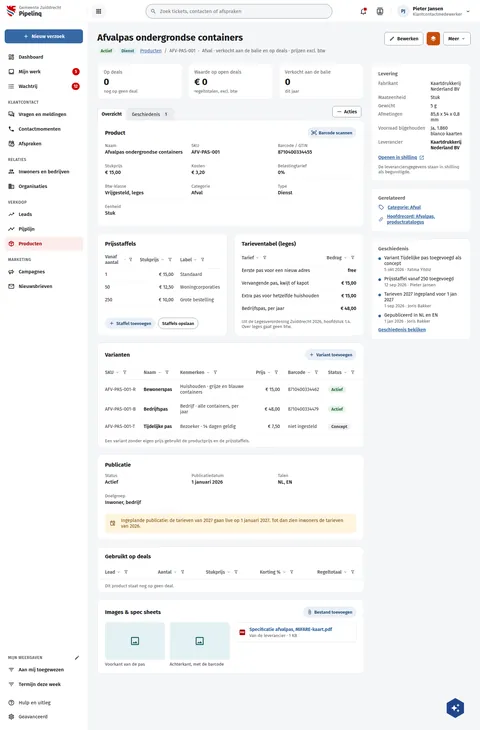
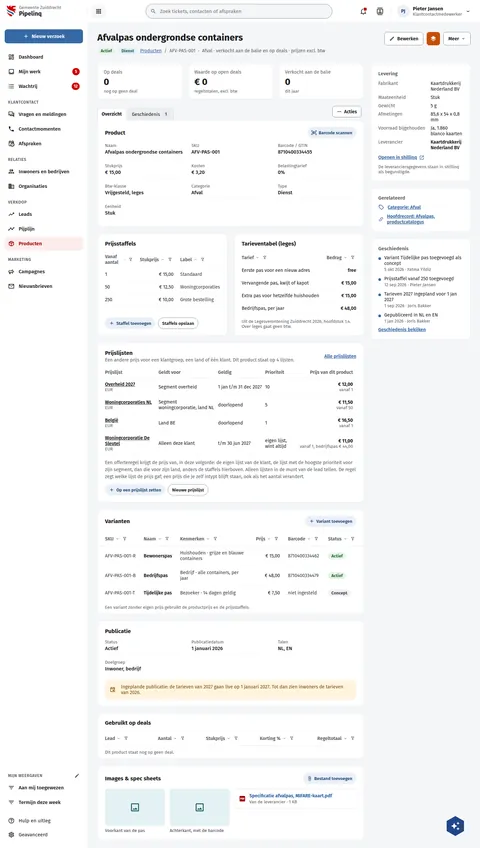
feat(screens): PqProduct lists the price lists per customer group, country or client
Row prod-price-lists (products-price-lists, REQ-PPL-001 to 003): a Prijslijsten section under the tiers and fee table lists the lists this product is on (segment, country or one client, validity, priority, price and minimum quantity) and states the order in which a quote line gets its price and that a typed price stays. The capability note lists the row; the English catalogue carries the new strings.

Assisted-by: ClaudeCode:claude-fable-5-1

diff --git a/preview/screens/boards/PqProduct.html b/preview/screens/boards/PqProduct.html
@@ -279,6 +279,19 @@ a{color:var(--sc-primary, #3669a5)}a:hover{color:var(--sc-primary-deep, #234a78)
               </section>
             </div>
 
+            <section style="background: #ffffff; border: 1px solid var(--sc-work-line, #e4e6ea); border-radius: 12px; padding: 20px 22px; display: flex; flex-direction: column; gap: 12px">
+              <div style="display: flex; flex-wrap: wrap; justify-content: space-between; align-items: center; gap: 8px"><div style="display: flex; flex-direction: column; gap: 2px"><h2 style="margin: 0; font-size: 17px; font-weight: 700">Prijslijsten</h2><span style="font-size: 14px; color: var(--sc-work-muted, #5e6168)">Een andere prijs voor een klantgroep, een land of één klant. Dit product staat op 4 lijsten.</span></div><a href="PqProducten.html" style="font-size: 14px; font-weight: 600">Alle prijslijsten</a></div>
+              <table style="border-collapse: collapse; width: 100%; font-size: 14px">
+                <thead><tr style="text-align: left; color: var(--sc-work-muted, #5e6168)"><th style="padding: 8px 10px 8px 0; border-bottom: 1px solid var(--sc-work-line, #e4e6ea); font-weight: 600">Prijslijst</th><th style="padding: 8px 10px 8px 0; border-bottom: 1px solid var(--sc-work-line, #e4e6ea); font-weight: 600">Geldt voor</th><th style="padding: 8px 10px 8px 0; border-bottom: 1px solid var(--sc-work-line, #e4e6ea); font-weight: 600">Geldig</th><th style="padding: 8px 10px 8px 0; border-bottom: 1px solid var(--sc-work-line, #e4e6ea); font-weight: 600">Prioriteit</th><th style="padding: 8px 10px 8px 0; border-bottom: 1px solid var(--sc-work-line, #e4e6ea); font-weight: 600; text-align: right">Prijs van dit product</th></tr></thead>
+                <tbody><tr><td style="padding: 10px 10px 10px 0; border-bottom: 1px solid var(--sc-work-soft, #eef0f3)"><a href="#" style="font-weight: 600; color: var(--sc-work-ink, #1b1c1d)">Overheid 2027</a><span style="display: block; font-size: 13px; color: var(--sc-work-muted, #5e6168)">EUR</span></td><td style="padding: 10px 10px 10px 0; border-bottom: 1px solid var(--sc-work-soft, #eef0f3)">Segment overheid</td><td style="padding: 10px 10px 10px 0; border-bottom: 1px solid var(--sc-work-soft, #eef0f3); white-space: nowrap">1 jan t/m 31 dec 2027</td><td style="padding: 10px 10px 10px 0; border-bottom: 1px solid var(--sc-work-soft, #eef0f3)">10</td><td style="padding: 10px 10px 10px 0; border-bottom: 1px solid var(--sc-work-soft, #eef0f3); text-align: right; white-space: nowrap"><strong>€ 12,00</strong><span style="display: block; font-size: 13px; color: var(--sc-work-muted, #5e6168)">vanaf 1</span></td></tr><tr><td style="padding: 10px 10px 10px 0; border-bottom: 1px solid var(--sc-work-soft, #eef0f3)"><a href="#" style="font-weight: 600; color: var(--sc-work-ink, #1b1c1d)">Woningcorporaties NL</a><span style="display: block; font-size: 13px; color: var(--sc-work-muted, #5e6168)">EUR</span></td><td style="padding: 10px 10px 10px 0; border-bottom: 1px solid var(--sc-work-soft, #eef0f3)">Segment woningcorporatie, land NL</td><td style="padding: 10px 10px 10px 0; border-bottom: 1px solid var(--sc-work-soft, #eef0f3); white-space: nowrap">doorlopend</td><td style="padding: 10px 10px 10px 0; border-bottom: 1px solid var(--sc-work-soft, #eef0f3)">5</td><td style="padding: 10px 10px 10px 0; border-bottom: 1px solid var(--sc-work-soft, #eef0f3); text-align: right; white-space: nowrap"><strong>€ 11,50</strong><span style="display: block; font-size: 13px; color: var(--sc-work-muted, #5e6168)">vanaf 50</span></td></tr><tr><td style="padding: 10px 10px 10px 0; border-bottom: 1px solid var(--sc-work-soft, #eef0f3)"><a href="#" style="font-weight: 600; color: var(--sc-work-ink, #1b1c1d)">België</a><span style="display: block; font-size: 13px; color: var(--sc-work-muted, #5e6168)">EUR</span></td><td style="padding: 10px 10px 10px 0; border-bottom: 1px solid var(--sc-work-soft, #eef0f3)">Land BE</td><td style="padding: 10px 10px 10px 0; border-bottom: 1px solid var(--sc-work-soft, #eef0f3); white-space: nowrap">doorlopend</td><td style="padding: 10px 10px 10px 0; border-bottom: 1px solid var(--sc-work-soft, #eef0f3)">1</td><td style="padding: 10px 10px 10px 0; border-bottom: 1px solid var(--sc-work-soft, #eef0f3); text-align: right; white-space: nowrap"><strong>€ 16,50</strong><span style="display: block; font-size: 13px; color: var(--sc-work-muted, #5e6168)">vanaf 1</span></td></tr><tr><td style="padding: 10px 10px 10px 0; border-bottom: 1px solid var(--sc-work-soft, #eef0f3)"><a href="#" style="font-weight: 600; color: var(--sc-work-ink, #1b1c1d)">Woningcorporatie De Sleutel</a><span style="display: block; font-size: 13px; color: var(--sc-work-muted, #5e6168)">EUR</span></td><td style="padding: 10px 10px 10px 0; border-bottom: 1px solid var(--sc-work-soft, #eef0f3)">Alleen deze klant</td><td style="padding: 10px 10px 10px 0; border-bottom: 1px solid var(--sc-work-soft, #eef0f3); white-space: nowrap">t/m 30 jun 2027</td><td style="padding: 10px 10px 10px 0; border-bottom: 1px solid var(--sc-work-soft, #eef0f3)">eigen lijst, wint altijd</td><td style="padding: 10px 10px 10px 0; border-bottom: 1px solid var(--sc-work-soft, #eef0f3); text-align: right; white-space: nowrap"><strong>€ 11,00</strong><span style="display: block; font-size: 13px; color: var(--sc-work-muted, #5e6168)">vanaf 1, bedrijfspas € 44,00</span></td></tr></tbody>
+              </table>
+              <p style="margin: 0; font-size: 14px; line-height: 1.5; color: var(--sc-work-muted, #5e6168)">Een offerteregel krijgt de prijs van, in deze volgorde: de eigen lijst van de klant, de lijst met de hoogste prioriteit voor zijn segment, dan die voor zijn land, anders de staffels hierboven. Alleen lijsten in de munt van de lead tellen. De regel zegt welke lijst de prijs gaf; een prijs die je zelf intypt blijft staan, ook als het aantal verandert.</p>
+              <div style="display: flex; flex-wrap: wrap; gap: 8px">
+                <button type="button" style="display: inline-flex; align-items: center; gap: 6px; height: 34px; padding: 0 12px; border: 0; border-radius: 17px; background: var(--sc-primary-light, #eaf0f7); color: var(--sc-primary-deep, #234a78); font: 600 13px var(--sc-font, 'Fira Sans'), sans-serif"><svg width="16" height="16" viewbox="0 0 24 24" fill="currentColor"><path d="M19,13H13V19H11V13H5V11H11V5H13V11H19V13Z"></path></svg>Op een prijslijst zetten</button>
+                <button type="button" style="height: 34px; padding: 0 12px; border: 1px solid var(--sc-work-field, #828a95); border-radius: 17px; background: #ffffff; color: var(--sc-work-ink, #1b1c1d); font: 600 13px var(--sc-font, 'Fira Sans'), sans-serif">Nieuwe prijslijst</button>
+              </div>
+            </section>
+
             <section style="background: #ffffff; border: 1px solid var(--sc-work-line, #e4e6ea); border-radius: 12px; display: flex; flex-direction: column">
               <div style="display: flex; flex-wrap: wrap; justify-content: space-between; align-items: center; gap: 10px; padding: 18px 22px 14px">
                 <h2 style="margin: 0; font-size: 17px; font-weight: 700">Varianten</h2>

diff --git a/screens-src/zuiddrecht/PqProduct.dc.html b/screens-src/zuiddrecht/PqProduct.dc.html
@@ -88,6 +88,19 @@ a{color:#3669a5}a:hover{color:#234a78}
               </section>
             </div>
 
+            <section style="background: #ffffff; border: 1px solid #e4e6ea; border-radius: 12px; padding: 20px 22px; display: flex; flex-direction: column; gap: 12px">
+              <div style="display: flex; flex-wrap: wrap; justify-content: space-between; align-items: center; gap: 8px"><div style="display: flex; flex-direction: column; gap: 2px"><h2 style="margin: 0; font-size: 17px; font-weight: 700">Prijslijsten</h2><span style="font-size: 14px; color: #5e6168">Een andere prijs voor een klantgroep, een land of één klant. Dit product staat op 4 lijsten.</span></div><a href="PqProducten.dc.html" style="font-size: 14px; font-weight: 600">Alle prijslijsten</a></div>
+              <table style="border-collapse: collapse; width: 100%; font-size: 14px">
+                <thead><tr style="text-align: left; color: #5e6168"><th style="padding: 8px 10px 8px 0; border-bottom: 1px solid #e4e6ea; font-weight: 600">Prijslijst</th><th style="padding: 8px 10px 8px 0; border-bottom: 1px solid #e4e6ea; font-weight: 600">Geldt voor</th><th style="padding: 8px 10px 8px 0; border-bottom: 1px solid #e4e6ea; font-weight: 600">Geldig</th><th style="padding: 8px 10px 8px 0; border-bottom: 1px solid #e4e6ea; font-weight: 600">Prioriteit</th><th style="padding: 8px 10px 8px 0; border-bottom: 1px solid #e4e6ea; font-weight: 600; text-align: right">Prijs van dit product</th></tr></thead>
+                <tbody><tr><td style="padding: 10px 10px 10px 0; border-bottom: 1px solid #eef0f3"><a href="#" style="font-weight: 600; color: #1b1c1d">Overheid 2027</a><span style="display: block; font-size: 13px; color: #5e6168">EUR</span></td><td style="padding: 10px 10px 10px 0; border-bottom: 1px solid #eef0f3">Segment overheid</td><td style="padding: 10px 10px 10px 0; border-bottom: 1px solid #eef0f3; white-space: nowrap">1 jan t/m 31 dec 2027</td><td style="padding: 10px 10px 10px 0; border-bottom: 1px solid #eef0f3">10</td><td style="padding: 10px 10px 10px 0; border-bottom: 1px solid #eef0f3; text-align: right; white-space: nowrap"><strong>€ 12,00</strong><span style="display: block; font-size: 13px; color: #5e6168">vanaf 1</span></td></tr><tr><td style="padding: 10px 10px 10px 0; border-bottom: 1px solid #eef0f3"><a href="#" style="font-weight: 600; color: #1b1c1d">Woningcorporaties NL</a><span style="display: block; font-size: 13px; color: #5e6168">EUR</span></td><td style="padding: 10px 10px 10px 0; border-bottom: 1px solid #eef0f3">Segment woningcorporatie, land NL</td><td style="padding: 10px 10px 10px 0; border-bottom: 1px solid #eef0f3; white-space: nowrap">doorlopend</td><td style="padding: 10px 10px 10px 0; border-bottom: 1px solid #eef0f3">5</td><td style="padding: 10px 10px 10px 0; border-bottom: 1px solid #eef0f3; text-align: right; white-space: nowrap"><strong>€ 11,50</strong><span style="display: block; font-size: 13px; color: #5e6168">vanaf 50</span></td></tr><tr><td style="padding: 10px 10px 10px 0; border-bottom: 1px solid #eef0f3"><a href="#" style="font-weight: 600; color: #1b1c1d">België</a><span style="display: block; font-size: 13px; color: #5e6168">EUR</span></td><td style="padding: 10px 10px 10px 0; border-bottom: 1px solid #eef0f3">Land BE</td><td style="padding: 10px 10px 10px 0; border-bottom: 1px solid #eef0f3; white-space: nowrap">doorlopend</td><td style="padding: 10px 10px 10px 0; border-bottom: 1px solid #eef0f3">1</td><td style="padding: 10px 10px 10px 0; border-bottom: 1px solid #eef0f3; text-align: right; white-space: nowrap"><strong>€ 16,50</strong><span style="display: block; font-size: 13px; color: #5e6168">vanaf 1</span></td></tr><tr><td style="padding: 10px 10px 10px 0; border-bottom: 1px solid #eef0f3"><a href="#" style="font-weight: 600; color: #1b1c1d">Woningcorporatie De Sleutel</a><span style="display: block; font-size: 13px; color: #5e6168">EUR</span></td><td style="padding: 10px 10px 10px 0; border-bottom: 1px solid #eef0f3">Alleen deze klant</td><td style="padding: 10px 10px 10px 0; border-bottom: 1px solid #eef0f3; white-space: nowrap">t/m 30 jun 2027</td><td style="padding: 10px 10px 10px 0; border-bottom: 1px solid #eef0f3">eigen lijst, wint altijd</td><td style="padding: 10px 10px 10px 0; border-bottom: 1px solid #eef0f3; text-align: right; white-space: nowrap"><strong>€ 11,00</strong><span style="display: block; font-size: 13px; color: #5e6168">vanaf 1, bedrijfspas € 44,00</span></td></tr></tbody>
+              </table>
+              <p style="margin: 0; font-size: 14px; line-height: 1.5; color: #5e6168">Een offerteregel krijgt de prijs van, in deze volgorde: de eigen lijst van de klant, de lijst met de hoogste prioriteit voor zijn segment, dan die voor zijn land, anders de staffels hierboven. Alleen lijsten in de munt van de lead tellen. De regel zegt welke lijst de prijs gaf; een prijs die je zelf intypt blijft staan, ook als het aantal verandert.</p>
+              <div style="display: flex; flex-wrap: wrap; gap: 8px">
+                <button type="button" style="display: inline-flex; align-items: center; gap: 6px; height: 34px; padding: 0 12px; border: 0; border-radius: 17px; background: #eaf0f7; color: #234a78; font: 600 13px 'Fira Sans', sans-serif"><svg width="16" height="16" viewBox="0 0 24 24" fill="currentColor"><path d="M19,13H13V19H11V13H5V11H11V5H13V11H19V13Z"></path></svg>Op een prijslijst zetten</button>
+                <button type="button" style="height: 34px; padding: 0 12px; border: 1px solid #828a95; border-radius: 17px; background: #ffffff; color: #1b1c1d; font: 600 13px 'Fira Sans', sans-serif">Nieuwe prijslijst</button>
+              </div>
+            </section>
+
             <section style="background: #ffffff; border: 1px solid #e4e6ea; border-radius: 12px; display: flex; flex-direction: column">
               <div style="display: flex; flex-wrap: wrap; justify-content: space-between; align-items: center; gap: 10px; padding: 18px 22px 14px">
                 <h2 style="margin: 0; font-size: 17px; font-weight: 700">Varianten</h2>
